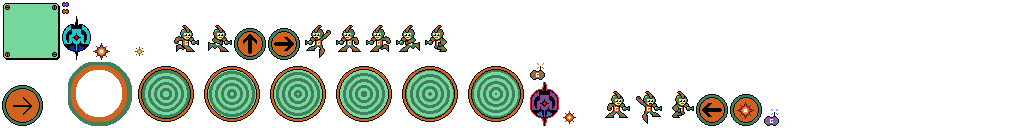
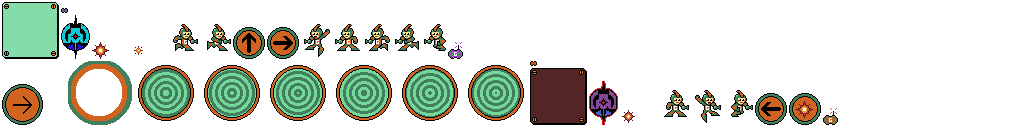
Add solid platform that connot be moved through by a gigagal object

diff --git a/core/src/com/udacity/game/gigagal/entities/GigaGal.java b/core/src/com/udacity/game/gigagal/entities/GigaGal.java
@@ -29,6 +29,7 @@ public class GigaGal {
     private long jumpStartTime;
     private long walkStartTime;
     private Level level;
+    private boolean hit_solid;
 
     public Vector2 position;
     public int ammmo_basic;
@@ -60,12 +61,21 @@ public class GigaGal {
         facing = Direction.RIGHT;
         jumpState = JumpState.FALLING;
         walkState = WalkState.STANDING;
+        hit_solid = false;
     }
 
     public void update(float delta, Array<Platform> platforms) {
         position_last_frame.set(position);
         velocity.y -= delta * Constants.GRAVITY;
         position.mulAdd(velocity, delta);
+        hit_solid = false;
+
+        Rectangle gigagal_bounding_box = new Rectangle(
+                position.x - Constants.GIGAGAL_STANCE_WIDTH,
+                position.y - Constants.GIGAGAL_EYE_HEIGHT,
+                Constants.GIGAGAL_STANCE_WIDTH * 2,
+                Constants.GIGAGAL_HEIGHT
+        );
 
         if (position.y < level.getKillplane_height()) {
             lives -= 1;
@@ -73,6 +83,18 @@ public class GigaGal {
                 return;
             }
             respawn();
+        }
+
+        for (Platform platform: platforms) {
+            if (platform.solid && gigagal_bounding_box.overlaps(new Rectangle(platform.left, platform.bottom, platform.width, platform.height - 1))) {
+                if (velocity.y > 0) {
+                    velocity.y = 0;
+                }
+                hit_solid = true;
+                velocity.x = 0;
+                position.set(position_last_frame);
+                position.mulAdd(velocity, delta);
+            }
         }
 
         if (jumpState != JumpState.JUMPING) {
@@ -90,13 +112,6 @@ public class GigaGal {
                 }
             }
         }
-
-        Rectangle gigagal_bounding_box = new Rectangle(
-                position.x - Constants.GIGAGAL_STANCE_WIDTH,
-                position.y - Constants.GIGAGAL_EYE_HEIGHT,
-                Constants.GIGAGAL_STANCE_WIDTH * 2,
-                Constants.GIGAGAL_HEIGHT
-        );
 
         for (Enemy enemy : level.getEnemies()) {
             Rectangle enemy_bounding_box = new Rectangle(
@@ -118,9 +133,9 @@ public class GigaGal {
         if (Gdx.input.isKeyPressed(Input.Keys.Z ) || jumpButtonPressed) {
             switch (jumpState) {
                 case GROUNDED:
-                    startJump();
+                    startJump(gigagal_bounding_box,  platforms);
                 case JUMPING:
-                    continueJump();
+                    continueJump(gigagal_bounding_box,  platforms);
                 case FALLING:
                     break;
             }
@@ -128,7 +143,7 @@ public class GigaGal {
             endJump();
         }
 
-        if (jumpState != JumpState.RECOILING) {
+        if (jumpState != JumpState.RECOILING && !hit_solid) {
             if (Gdx.input.isKeyPressed(Input.Keys.LEFT) || leftButtonPressed) {
                 moveLeft(delta);
             } else if (Gdx.input.isKeyPressed(Input.Keys.RIGHT) || rightButtonPressed) {
@@ -241,20 +256,31 @@ public class GigaGal {
         position.x += delta * Constants.GIGAGAL_MOVEMENT_SPEED;
     }
 
-    private void startJump() {
+    private void startJump(Rectangle gigagal_bounding_box, Array<Platform> platforms) {
         jumpState = JumpState.JUMPING;
         jumpStartTime = TimeUtils.nanoTime();
-        continueJump();
+        continueJump(gigagal_bounding_box,  platforms);
     }
 
-    private void continueJump() {
+    private void continueJump(Rectangle gigagal_bounding_box, Array<Platform> platforms) {
+        boolean hit_solid = false;
+
         if (jumpState != JumpState.JUMPING) {
             return;
         }
 
         float jumpDuration = Utils.secondsSince(jumpStartTime);
 
-        if (jumpDuration < Constants.GIGAGAL_JUMP_DURATION) {
+        for (Platform platform: platforms) {
+            if (platform.solid && gigagal_bounding_box.overlaps(new Rectangle(platform.left, platform.bottom, platform.width, platform.height - 1))) {
+                velocity.y = 0;
+                velocity.x = 0;
+                hit_solid = true;
+                break;
+            }
+        }
+
+        if (jumpDuration < Constants.GIGAGAL_JUMP_DURATION && !hit_solid) {
             velocity.y = Constants.GIGAGAL_JUMP_SPEED;
         } else {
             endJump();

diff --git a/core/src/com/udacity/game/gigagal/utils/LevelLoader.java b/core/src/com/udacity/game/gigagal/utils/LevelLoader.java
@@ -12,6 +12,7 @@ import com.udacity.game.gigagal.entities.Enemy;
 import com.udacity.game.gigagal.entities.ExitPortal;
 import com.udacity.game.gigagal.entities.GigaGal;
 import com.udacity.game.gigagal.entities.Platform;
+import com.udacity.game.gigagal.entities.PlatformHard;
 import com.udacity.game.gigagal.entities.Powerup;
 
 import org.json.simple.JSONArray;
@@ -37,7 +38,6 @@ public class LevelLoader {
             JSONObject compositeObj = (JSONObject) levelObj.get(Constants.LEVEL_COMPOSITE);
 
             JSONArray platformsArray = (JSONArray) compositeObj.get(Constants.LEVEL_9PATCHES);
-            JSONObject platform = (JSONObject) platformsArray.get(0);
             loadPlatforms(platformsArray, level);
 
             JSONArray nonPlatformObjects = (JSONArray) compositeObj.get(Constants.LEVEL_IMAGES);
@@ -72,7 +72,13 @@ public class LevelLoader {
 
             Gdx.app.log(TAG, "Location: x:" + x + " y: " + y + " width: " + width + " height: " + height);
 
-            Platform platform = new Platform(x, y + height, width, height);
+            Platform platform;
+
+            if (platformObject.get(Constants.LEVEL_IMAGENAME_KEY).equals(Constants.PLATFORM_HARD)) {
+                platform = new PlatformHard(x, y + height, width, height);
+            } else {
+                platform = new Platform(x, y + height, width, height);
+            }
 
             platformArray.add(platform);
 

diff --git a/core/src/com/udacity/game/gigagal/entities/Platform.java b/core/src/com/udacity/game/gigagal/entities/Platform.java
@@ -1,8 +1,6 @@
 package com.udacity.game.gigagal.entities;
 
-import com.badlogic.gdx.graphics.Color;
 import com.badlogic.gdx.graphics.g2d.SpriteBatch;
-import com.badlogic.gdx.graphics.glutils.ShapeRenderer;
 import com.udacity.game.gigagal.utils.Assets;
 
 public class Platform implements Comparable<Platform> {
@@ -12,6 +10,7 @@ public class Platform implements Comparable<Platform> {
     public float right;
     public float width;
     public float height;
+    public boolean solid;
 
     public Platform(float left, float top, float width, float height) {
         this.top = top;
@@ -20,10 +19,11 @@ public class Platform implements Comparable<Platform> {
         this.right = left + width;
         this.width = width;
         this.height = height;
+        solid = false;
     }
 
     public void render(SpriteBatch spriteBatch) {
-        Assets.instance.platformAssets.ninePatch_platform.draw(spriteBatch, left -1, bottom -1, width + 2, height + 2);
+        Assets.instance.platformAssets.ninePatch_platform.draw(spriteBatch, left, bottom, width, height);
     }
 
     @Override

diff --git a/core/src/com/udacity/game/gigagal/utils/Assets.java b/core/src/com/udacity/game/gigagal/utils/Assets.java
@@ -103,13 +103,23 @@ public class Assets implements Disposable, AssetErrorListener {
     public class PlatformAssets {
 
         public TextureAtlas.AtlasRegion platform;
+        public TextureAtlas.AtlasRegion platform_hard;
         public NinePatch ninePatch_platform;
+        public NinePatch ninePatch_platform_hard;
 
 
         public PlatformAssets(TextureAtlas atlas) {
             platform = atlas.findRegion(Constants.PLATFORM);
+            platform_hard = atlas.findRegion(Constants.PLATFORM_HARD);
             ninePatch_platform = new NinePatch(
                     platform,
+                    Constants.PLATFORM_EDGE_LENGTH,
+                    Constants.PLATFORM_EDGE_LENGTH,
+                    Constants.PLATFORM_EDGE_LENGTH,
+                    Constants.PLATFORM_EDGE_LENGTH
+            );
+            ninePatch_platform_hard = new NinePatch(
+                    platform_hard,
                     Constants.PLATFORM_EDGE_LENGTH,
                     Constants.PLATFORM_EDGE_LENGTH,
                     Constants.PLATFORM_EDGE_LENGTH,

diff --git a/core/src/com/udacity/game/gigagal/entities/PlatformHard.java b/core/src/com/udacity/game/gigagal/entities/PlatformHard.java
@@ -1,0 +1,16 @@
+package com.udacity.game.gigagal.entities;
+
+import com.badlogic.gdx.graphics.g2d.SpriteBatch;
+import com.udacity.game.gigagal.utils.Assets;
+
+public class PlatformHard extends Platform {
+
+    public PlatformHard(float left, float top, float width, float height) {
+        super(left, top, width, height);
+        solid = true;
+    }
+
+    public void render(SpriteBatch spriteBatch) {
+        Assets.instance.platformAssets.ninePatch_platform_hard.draw(spriteBatch, left, bottom, width, height);
+    }
+}

diff --git a/core/src/com/udacity/game/gigagal/utils/Constants.java b/core/src/com/udacity/game/gigagal/utils/Constants.java
@@ -24,6 +24,7 @@ public class Constants {
     public static final String WALK_3_RIGHT = "walk-3-right";
     public static final String WALK_3_LEFT = "walk-3-left";
     public static final String PLATFORM = "platform";
+    public static final String PLATFORM_HARD = "platform-hard";
     public static final String ENEMY = "enemy";
     public static final String ENEMY2 = "enemy2";
     public static final String BULLET = "bullet";
